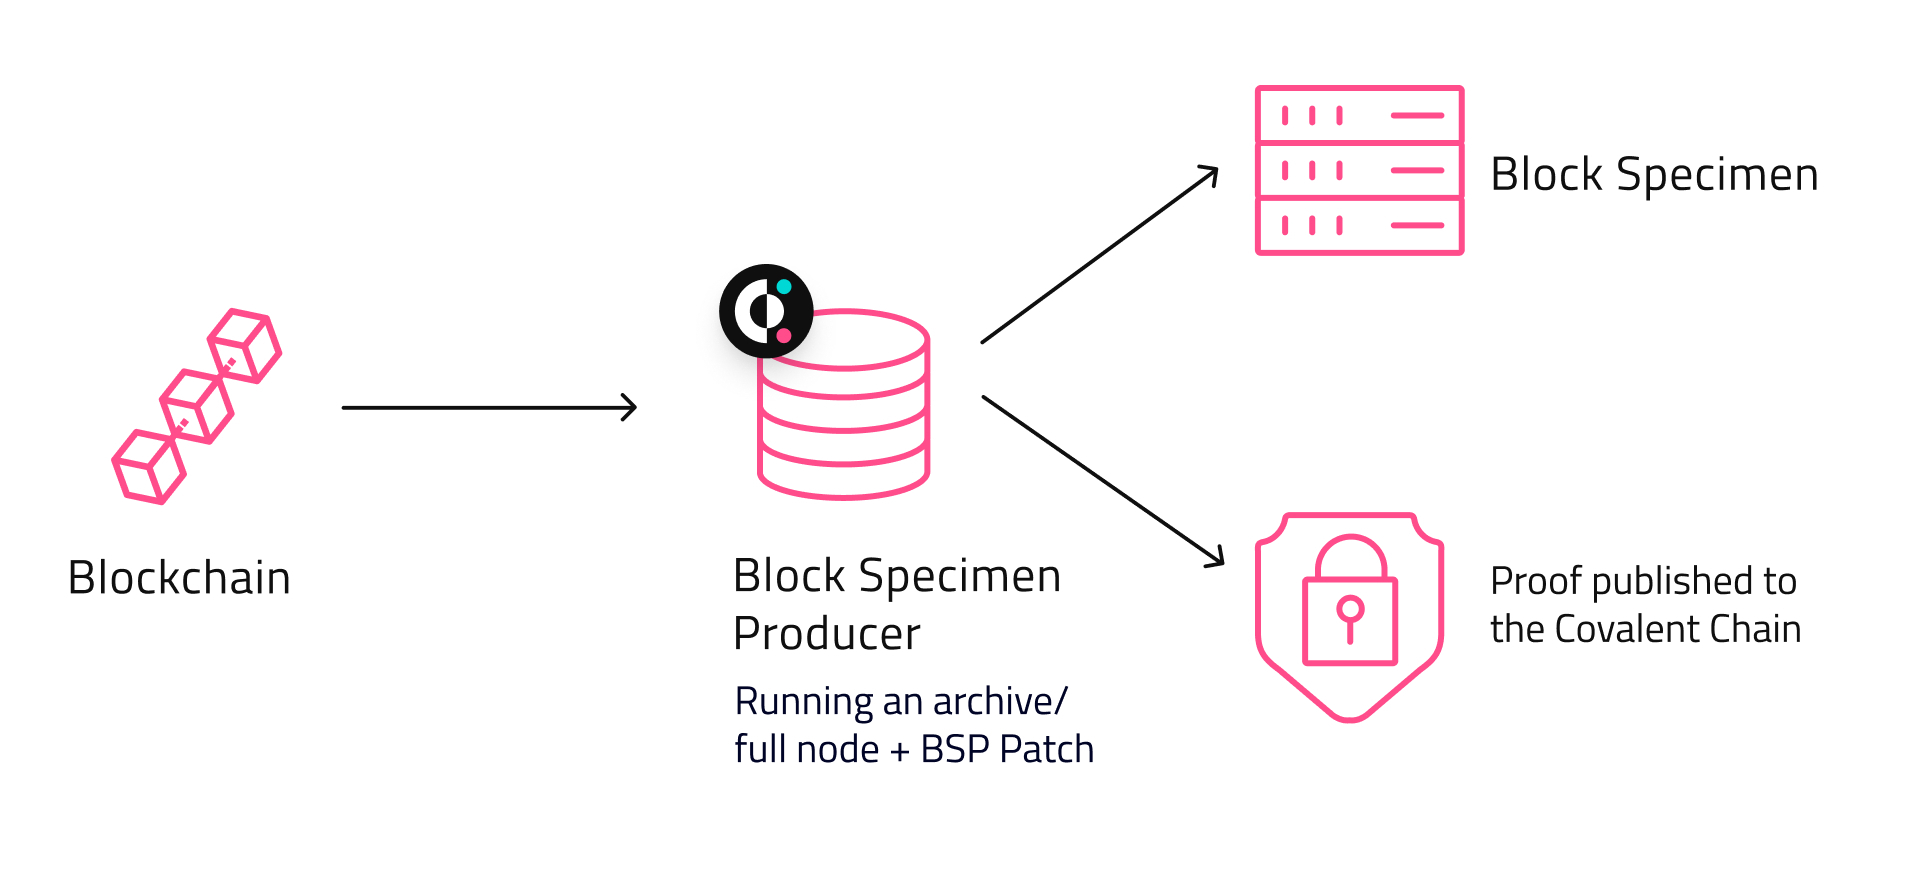
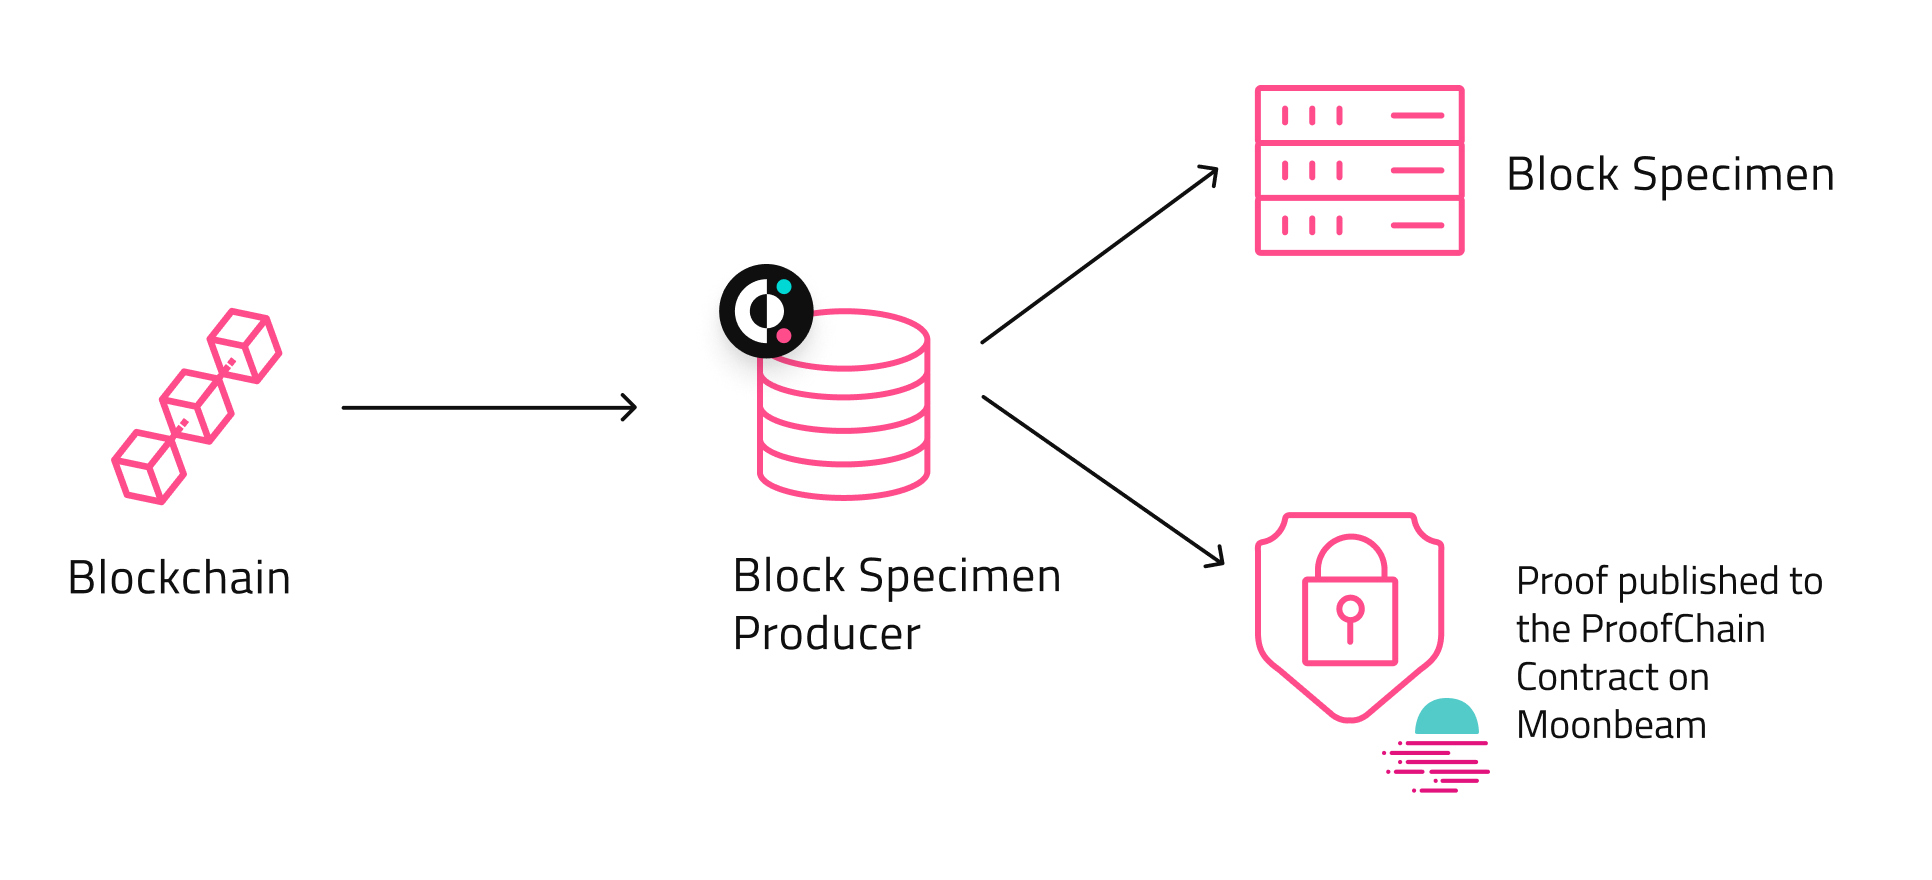
Bridge Guide (#193)
* Bridge Guide

* build fix

* Update bridge.md

* image resize

* added addresses

* updated bsp diagram

Changed region(s): [[0.7143, 0.6443, 0.9627, 0.8898], [0.3727, 0.767, 0.559, 0.8898], [0.7764, 0.1841, 0.9627, 0.2455]]

diff --git a/themes/docsy/layouts/shortcodes/open-api.html b/themes/docsy/layouts/shortcodes/open-api.html
@@ -1,4 +1,4 @@
-{{ $openApi := getJSON "https://api.covalenthq.com/v1/openapiv2/?lang=en&key=ckey_docs" }}
+{{ $openApi := getJSON "https://api.covalenthq.com/v1/openapiv2/?lang=en&key=ckey_aa53242fcff94402a123c3803e5" }}
 {{ $endpoint := .Get `endpoint` }}
 {{ $link := .Get `link` }}
 

diff --git a/content/en/docs/network/covalent-query-token/bridge.md b/content/en/docs/network/covalent-query-token/bridge.md
@@ -1,0 +1,68 @@
+---
+title: Bridge
+
+---
+
+# Bridge your CQT
+
+Covalent has partnered with [Nomad](https://www.nomad.xyz/) to enable the secure bridging of CQT to other networks. Nomad is a novel approach to blockchain interoperability that leverages an optimistic mechanism to increase the security of cross-chain communication.
+
+There are two options available when bridging through the Nomad GUI; Nomad and Connext. While complementary to one another, CQT bridging is only available through Nomad at this time.
+
+For more information on Nomad, please visit its [documentation](https://docs.nomad.xyz/).
+
+## Nomad CQT Domain
+
+One important note is that CQT contract address is different per network. As a result, you will have to import to your wallet the new CQT contract address that is respective to the network you are bridging to. It is recommended that you do this prior to bridging. The CQT contract addresses per chain are listed below:
+
+- CQT on Ethereum: **0xD417144312DbF50465b1C641d016962017Ef6240**
+- CQT on Moonbeam: **0x5130ca61bf02618548dfc3fdef50b50b36b11f2b**
+
+## How to Bridge CQT using Nomad
+
+Birding through Nomad is intuitive and easy. Outlined below are the steps involved to bridge CQT to Moonbeam using MetaMask.
+
+First, go to [https://app.nomad.xyz/](https://app.nomad.xyz/) and connect your wallet.
+
+<img src="/static/images/network/bridge/bridge1.jpg"></img>
+
+From here, you need to:
+
+- Select Token: **CQT**
+- Select an Origin network: **Ethereum**
+    - If your wallet is not connected to Ethereum at this point, you will be prompted to switch to Ethereum by your wallet, MetaMask in this case.
+- Select a destination network: **Moonbeam**
+
+At this point, the interface should be similar to the below image. The Gas Fee and time to complete the bridge request are shown. Finally, select how much CQT you wish to bridge and select ‘Next’.
+
+<img class="w-1/2" src="/static/images/network/bridge/bridge2.jpg"></img>
+
+After selecting ‘Next’, you will be shown the below prompt. Make sure Nomad is selected and hit ‘Send’.
+
+<img class="w-1/2" src="/static/images/network/bridge/bridge3.jpg"></img>
+
+### Approve & Send Transaction
+
+Before your CQT can be moved to moonbeam, you may need to approve the Nomad Contract to interact with your CQT. This will incur a gas fee.
+
+Having done so, you will be asked to confirm the transaction.
+
+<img class="w-1/2" src="/static/images/network/bridge/bridge4.jpg"></img>
+
+After approving the transaction, you will be taken to the transaction details page. Here, you will see the estimated time remaining for your transfer to complete. Please save your transaction hash for convenience. If you lose it, you can visit your wallet address on the block explorer of the origin network and find the transaction again.
+
+<img class="w-1/2" src="/static/images/network/bridge/bridge5.jpg"></img>
+
+You can expand the time estimate tab to track your transaction status by clicking the down arrow in the blue box.
+
+<img class="w-1/2" src="/static/images/network/bridge/bridge6.jpg"></img>
+
+(Optional) If you navigated away from the GUI at any point and want to find your transfer's progress page again, visit [https://app.nomad.xyz/tx](https://app.nomad.xyz/tx) and enter the origin network and your transfer's transaction hash.
+
+Once your transfer has been completed, you should see the below thedisplay and your funds will be in the account of your destination address. If your transfer is taking longer than expected, please reach out to the Nomad team on [Discord](https://discord.gg/RurtmJApqm) in the #support channel.
+
+Once the transfer is complete, you will see the below prompt.
+
+<img src="/static/images/network/bridge/bridge7.jpg"></img>
+
+And that's it. You have successfully bridged your CQT to Moonbeam.

diff --git a/content/en/docs/network/covalent-query-token/_index.md b/content/en/docs/network/covalent-query-token/_index.md
@@ -22,6 +22,8 @@ A critical component of the Covalent Network is CQT. CQT is the native token of 
 
 - Staking (*coming soon*)
 
+- Bridge
+
 - [Governance](https://covalent-docs-git-network-docs-covalenthq.vercel.app/docs/network/covalent-query-token/governance)
 
 ## CQT Operating on the Covalent Network
